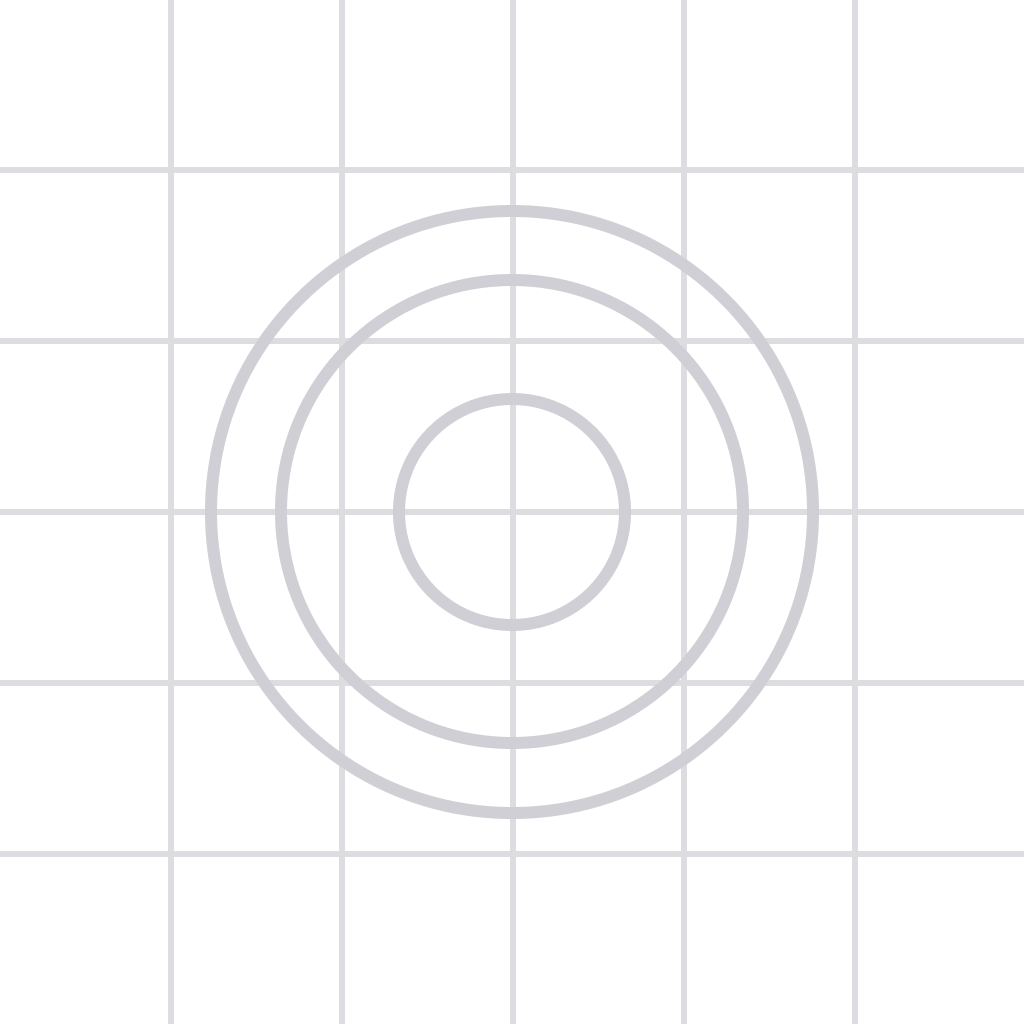
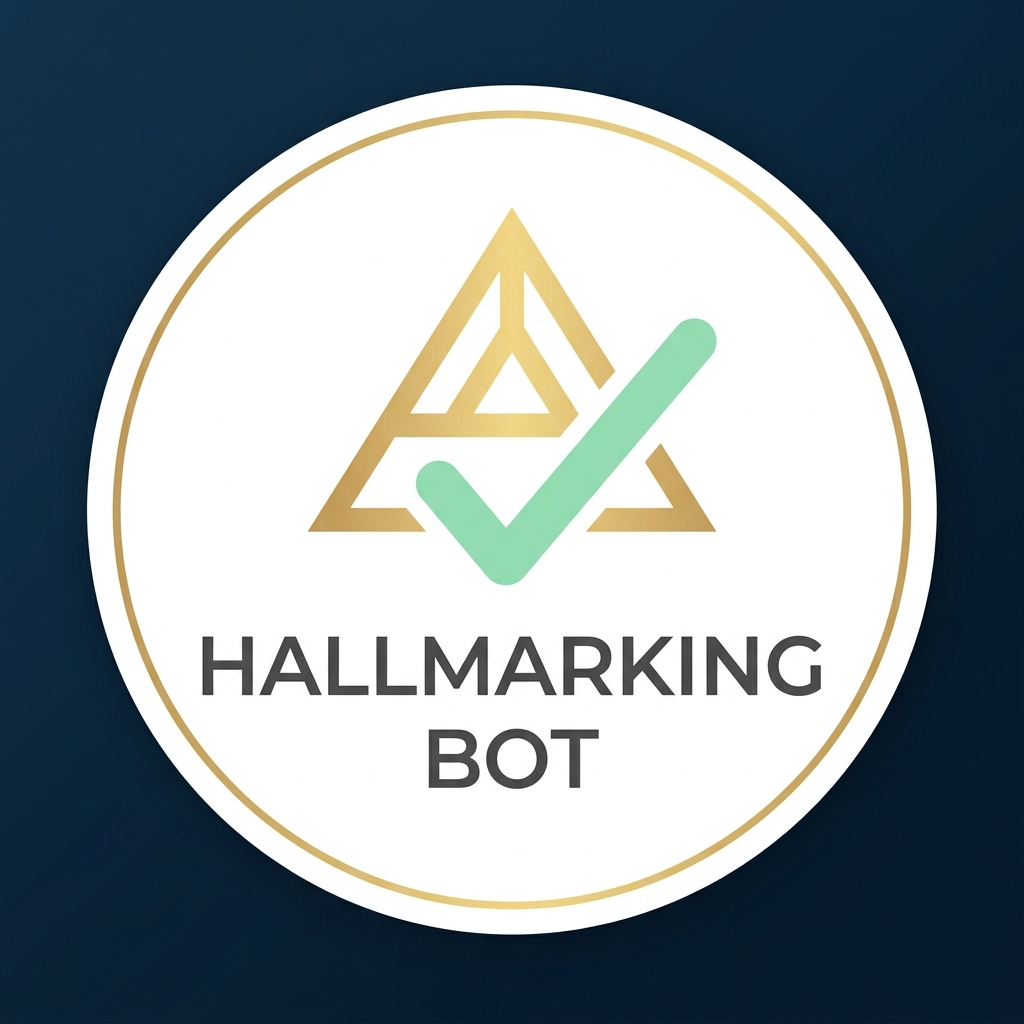
perf: optimize backend startup memory to run under 512MB on Render using serverless HuggingFace embeddings

diff --git a/backend/embeddings.py b/backend/embeddings.py
@@ -1,0 +1,58 @@
+import os
+import requests
+from langchain_core.embeddings import Embeddings
+
+class HuggingFaceAPIEmbeddings(Embeddings):
+    def __init__(self, model: str = "sentence-transformers/all-MiniLM-L6-v2", api_token: str = None):
+        self.model = model
+        self.api_token = api_token
+        self.api_url = f"https://api-inference.huggingface.co/models/{model}"
+        self.headers = {"Authorization": f"Bearer {api_token}"} if api_token else {}
+
+    def _embed(self, texts: list[str]) -> list[list[float]]:
+        try:
+            response = requests.post(
+                self.api_url,
+                headers=self.headers,
+                json={"inputs": texts, "options": {"wait_for_model": True}},
+                timeout=30
+            )
+            if response.status_code != 200:
+                raise Exception(f"HuggingFace API error ({response.status_code}): {response.text}")
+            
+            result = response.json()
+            if isinstance(result, list):
+                # If it's a 1D list of floats, wrap it in a nested list
+                if len(result) > 0 and isinstance(result[0], float):
+                    return [result]
+                # If it's a 2D list of list of floats, return it directly
+                if len(result) > 0 and isinstance(result[0], list):
+                    return result
+            raise Exception(f"Unexpected response format from HuggingFace: {result}")
+        except Exception as e:
+            print(f"Error calling HuggingFace API: {e}")
+            raise
+
+    def embed_documents(self, texts: list[str]) -> list[list[float]]:
+        # Hugging Face API has limits on batch size, so we send in batches of 32
+        batch_size = 32
+        embeddings = []
+        for i in range(0, len(texts), batch_size):
+            batch = texts[i:i + batch_size]
+            embeddings.extend(self._embed(batch))
+        return embeddings
+
+    def embed_query(self, text: str) -> list[float]:
+        res = self._embed([text])
+        return res[0]
+
+def get_embeddings():
+    hf_token = os.getenv("HUGGINGFACEHUB_API_TOKEN")
+    if hf_token:
+        print("Using Cloud-based Hugging Face API Embeddings (Memory Optimized)")
+        return HuggingFaceAPIEmbeddings(api_token=hf_token)
+    else:
+        print("Using Local Hugging Face Embeddings (Default)")
+        # Lazy-load to avoid importing torch/transformers on start if not needed
+        from langchain_huggingface import HuggingFaceEmbeddings
+        return HuggingFaceEmbeddings(model_name="all-MiniLM-L6-v2")

diff --git a/backend/bot.py b/backend/bot.py
@@ -3,8 +3,6 @@ import os
 from langdetect import detect
 # pyrefly: ignore [missing-import]
 from langchain_groq import ChatGroq
-from langchain_huggingface import HuggingFaceEmbeddings
-from langchain_community.vectorstores import FAISS
 from langchain_core.prompts import PromptTemplate
 from dotenv import load_dotenv
 from deep_translator import GoogleTranslator
@@ -16,22 +14,13 @@ class HallmarkingBot:
     def __init__(self, index_path="../data/faiss_index"):
         self.index_path = index_path
         
-        # Free local embeddings
-        self.embeddings = HuggingFaceEmbeddings(model_name="all-MiniLM-L6-v2")
-        
         # Groq LLM (Fast Llama-3.3-70b-versatile)
         self.llm = ChatGroq(
             temperature=0, 
             groq_api_key=os.getenv("GROQ_API_KEY"), 
             model_name="llama-3.3-70b-versatile"
         )
-        
-        if os.path.exists(index_path):
-            self.vectorstore = FAISS.load_local(index_path, self.embeddings, allow_dangerous_deserialization=True)
-            self.is_ready = True
-        else:
-            self.vectorstore = None
-            self.is_ready = False
+        self.is_ready = True
 
         self.prompt_template = PromptTemplate(
             input_variables=["context", "question", "language"],

diff --git a/backend/rag_pipeline.py b/backend/rag_pipeline.py
@@ -6,9 +6,9 @@ import requests
 from dotenv import load_dotenv
 # pyrefly: ignore [missing-import]
 from textblob import TextBlob
-from langchain_huggingface import HuggingFaceEmbeddings
 from langchain_community.vectorstores import Chroma
 from groq import Groq
+from embeddings import get_embeddings
 
 load_dotenv()
 
@@ -27,7 +27,8 @@ def get_user_context_prompt(user) -> str:
         return """
         This user owns or works at a hallmarking centre.
         Focus on: XRF machine calibration, BIS compliance,
-        license renewal, equipment maintenance.
+        required documents, gold purity standards (916, 750, 585).
+        If new jeweler: proactively guide BIS registration steps.
         """
     elif user.role == "refinery":
         return """
@@ -41,7 +42,7 @@ def get_user_context_prompt(user) -> str:
 class RAGPipeline:
     def __init__(self, chroma_dir="../data/chroma_db"):
         self.chroma_dir = chroma_dir
-        self.embeddings = HuggingFaceEmbeddings(model_name="all-MiniLM-L6-v2")
+        self.embeddings = get_embeddings()
         
         if os.path.exists(chroma_dir):
             self.vectorstore = Chroma(

diff --git a/backend/data_pipeline.py b/backend/data_pipeline.py
@@ -2,9 +2,9 @@ import os
 import pandas as pd
 from langchain_community.document_loaders import PyPDFLoader, CSVLoader, TextLoader, DataFrameLoader
 from langchain_text_splitters import RecursiveCharacterTextSplitter
-from langchain_huggingface import HuggingFaceEmbeddings
 from langchain_community.vectorstores import Chroma
 from dotenv import load_dotenv
+from embeddings import get_embeddings
 
 load_dotenv()
 
@@ -17,7 +17,7 @@ def ingest_knowledge_base(data_dir="../data/knowledge", chroma_dir="../data/chro
         shutil.rmtree(chroma_dir)
         
     # 1. Setup Embeddings
-    embeddings = HuggingFaceEmbeddings(model_name="all-MiniLM-L6-v2")
+    embeddings = get_embeddings()
     
     # 2. Setup Chroma
     vectorstore = Chroma(